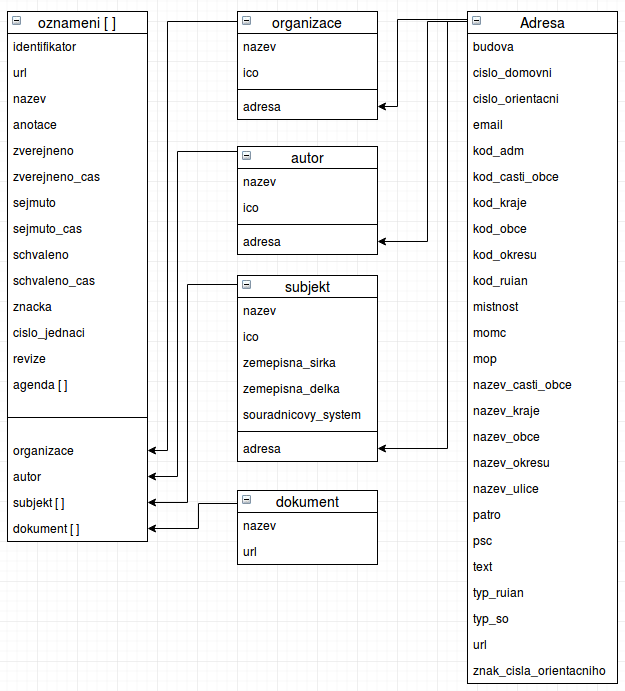
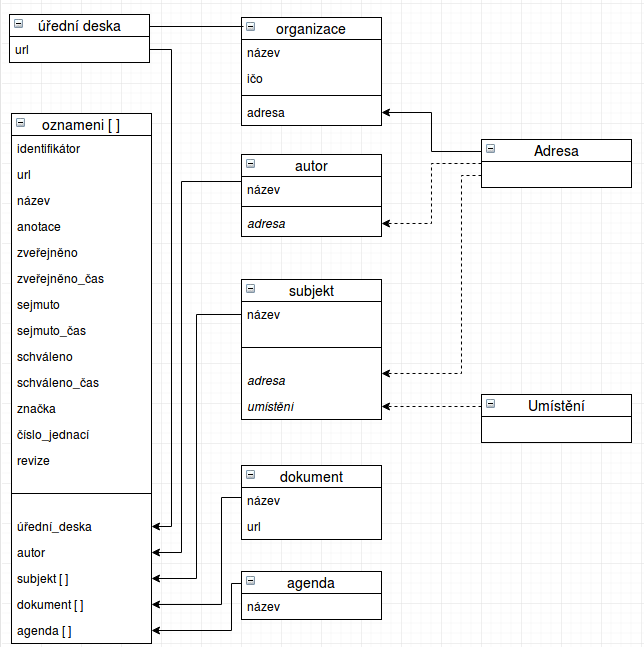
new pictures, fixes in index

diff --git a/úřední-desky/draft/index.html b/úřední-desky/draft/index.html
@@ -70,7 +70,7 @@
             <p>
                 Data z úředních desek lze publikovat v různých úrovních detailu, podle toho co umožňují systémy poskytovatele obsahující zdrojová data.
                 Aby ovšem byla publikovaná data alespoň nějak použitelná, je třeba je publikovat alespoň v minimálním rozsahu.
-                Ten zahrnuje identifikátor oznámení, jeho url, název, datum zveřejnění a sejmutí a IČO organizace, která oznámení publikuje.
+                Ten zahrnuje url úřední desky, IČO organizace, která úřední desku provozuje, identifikátor oznámení, jeho url, název, datum zveřejnění a sejmutí.
                 Minimální rozsah je graficky znázorněn v následujícím diagramu.
             </p>
 
@@ -797,6 +797,12 @@
                     </p>
                     <p>
                         Autor může být autorem více <a href="#třída-oznámení">oznámení</a>.
+                    </p>
+                    <p>
+                        Autor je osoba.
+                    </p>
+                    <p>
+                        Autor může mít <a href="#třída-adresa">adresu</a>.
                     </p>
                 </section>
                 <section id="vlastnosti-autor">
